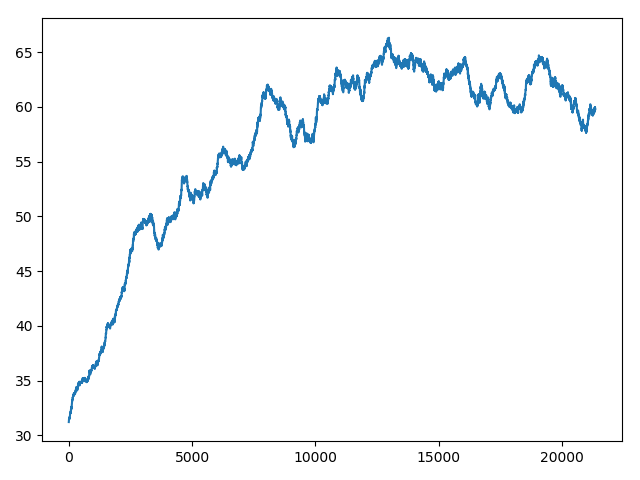
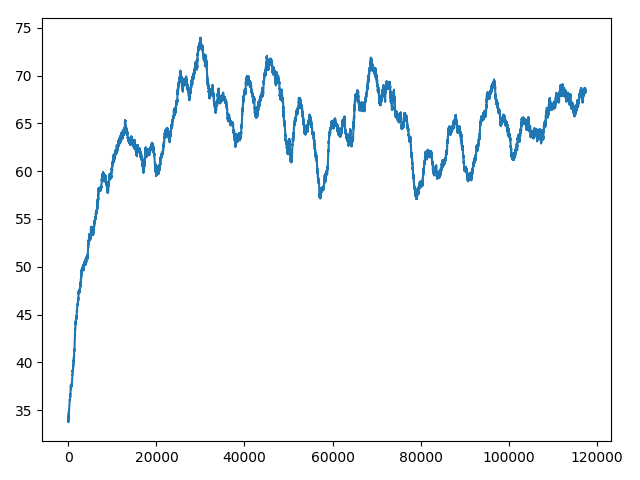
Roaches 5

diff --git a/sc2ai/env_interface.py b/sc2ai/env_interface.py
@@ -88,8 +88,6 @@ class RoachesEnvironmentInterface(EnvironmentInterface):
                     target = [x, y] + 10 * direction
                     target = np.clip(target, a_min=0, a_max=83)
                     yield pysc2_actions.FUNCTIONS.Move_screen('now', target)
-        for i in range(1):  # Give unit some time to walk backwards
-            yield
         yield
 
     @classmethod

diff --git a/graph_rewards.py b/graph_rewards.py
@@ -7,11 +7,12 @@ with open('../rewards.txt', 'r') as f:
         rewards.append(int(line))
 
 rewards = np.array(rewards)
-smooth_n = 1000
+smooth_n = 2500
 
 smoothed_rewards = []
 for i in range(len(rewards) - smooth_n):
     smoothed_rewards.append(np.sum(rewards[i:i+smooth_n]) / smooth_n)
 
+print(np.max(smoothed_rewards))
 plt.plot(smoothed_rewards)
 plt.show()

diff --git a/sc2ai/learner.py b/sc2ai/learner.py
@@ -26,7 +26,7 @@ class Learner:
             open('rewards.txt', 'w').close()
 
         self.env = environment
-        self.optimizer = torch.optim.Adam(self.actor.parameters(), lr=0.0015)
+        self.optimizer = torch.optim.Adam(self.actor.parameters(), lr=0.0003)
         self.episode_counter = 0
 
     def generate_trajectory(self):
